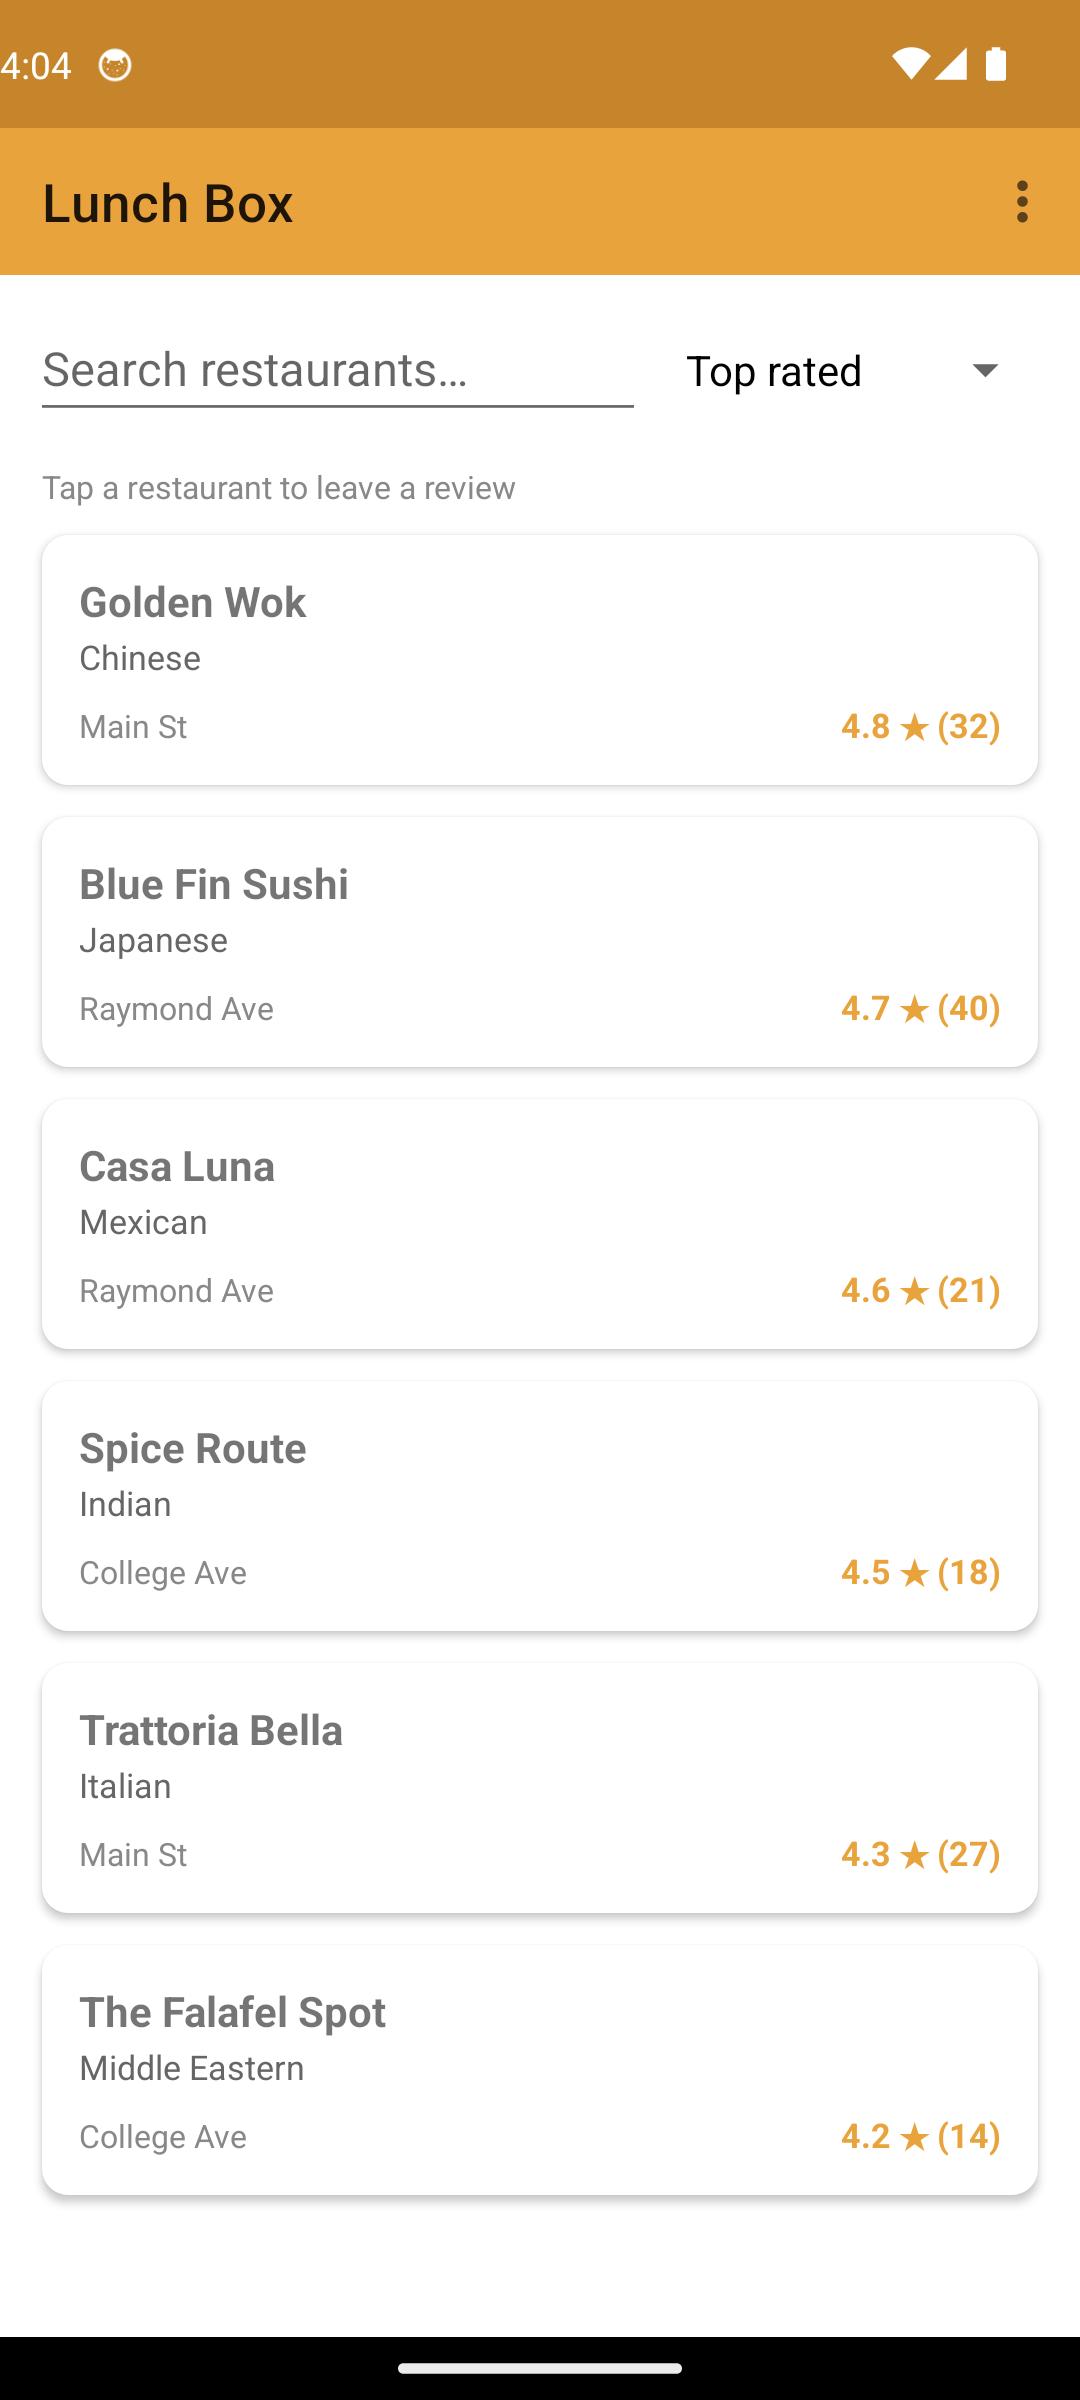
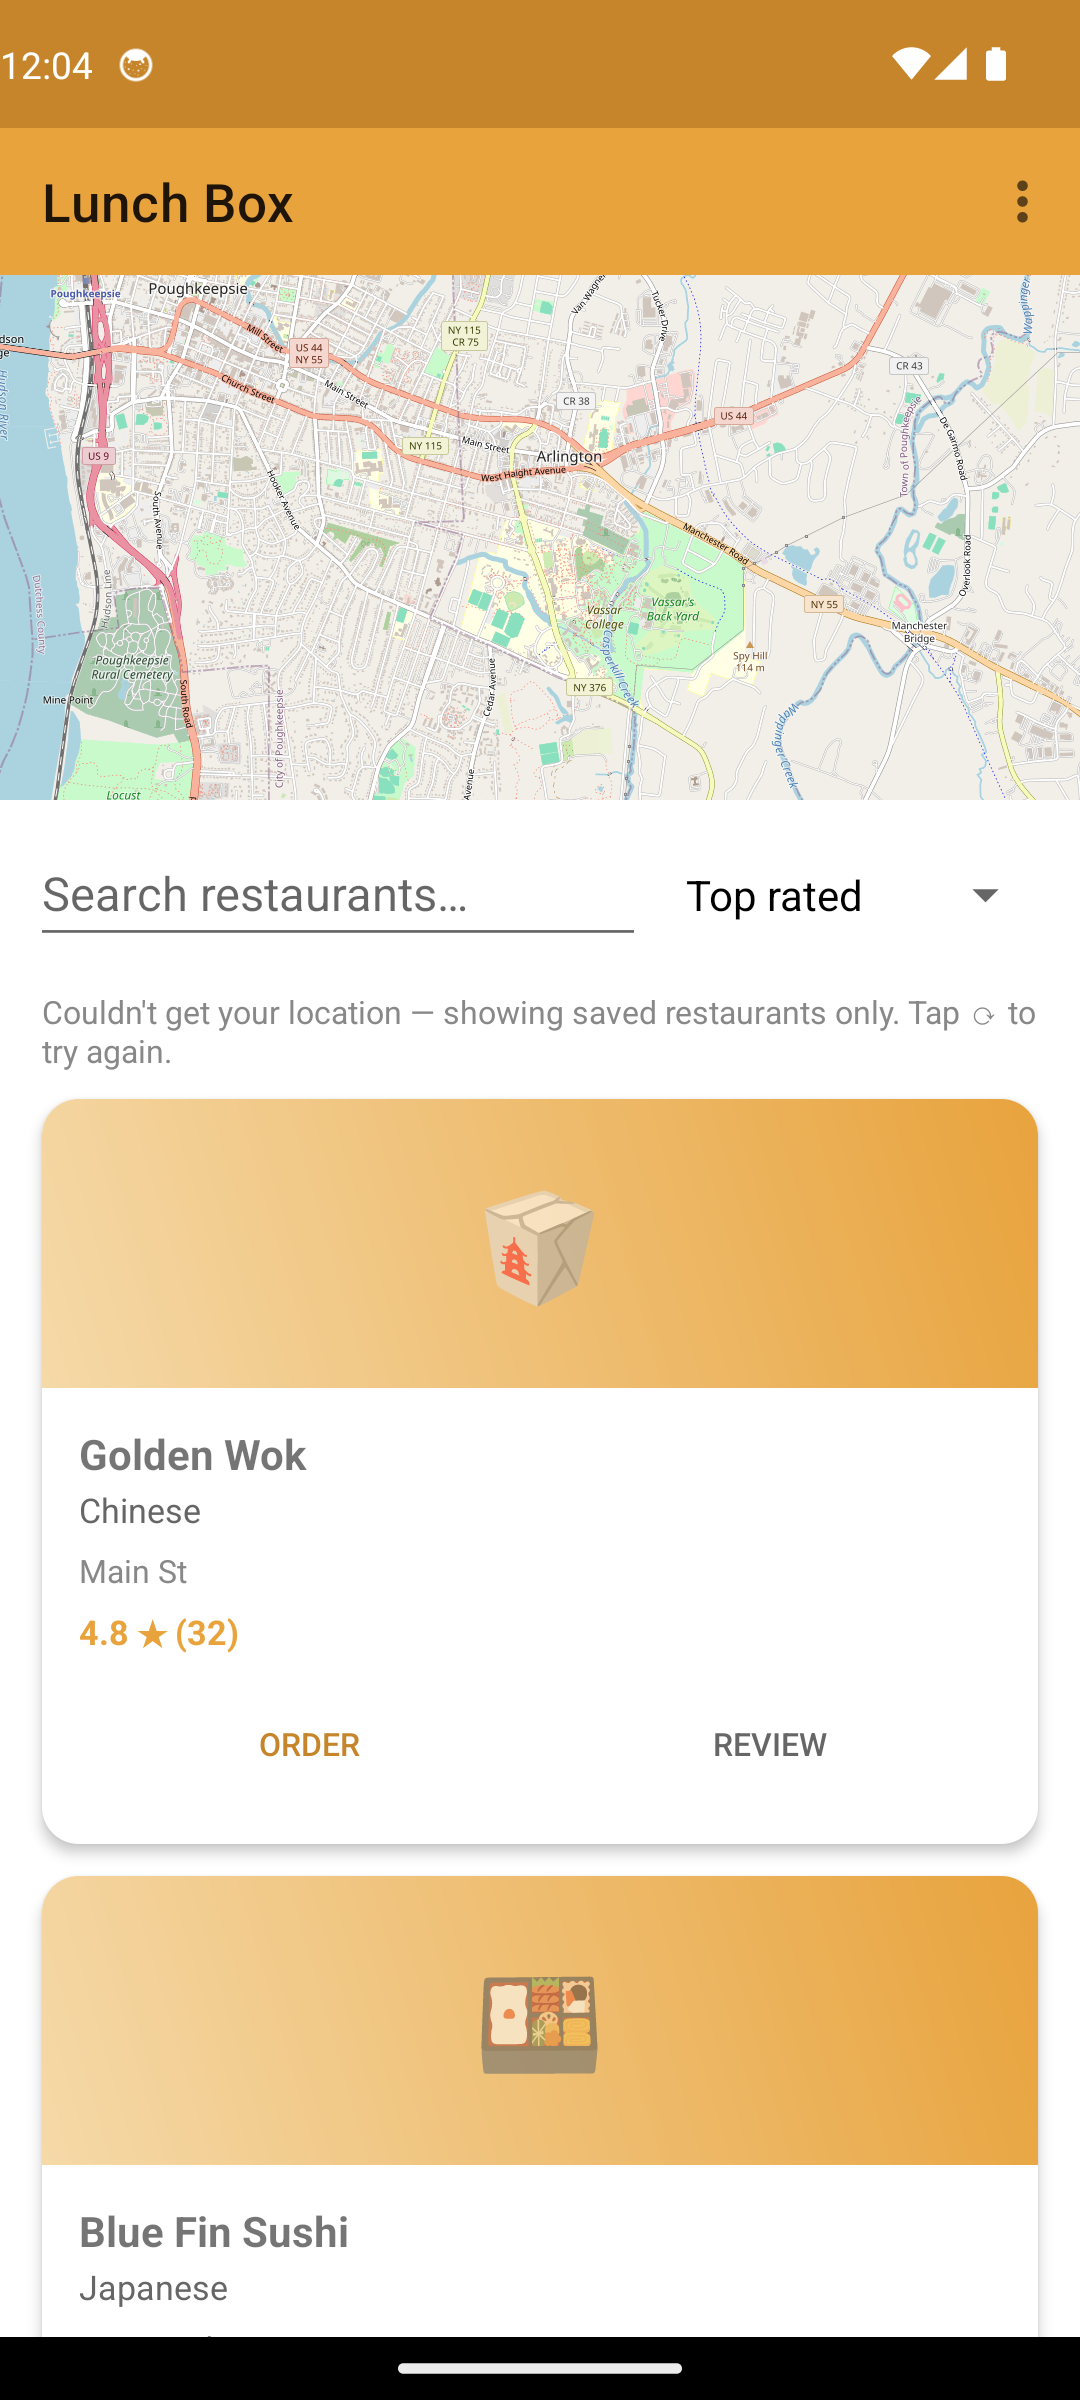
Update Lunch Box card: real map/nearby-restaurant features

diff --git a/lib/data.ts b/lib/data.ts
@@ -137,8 +137,8 @@ export const projects: Project[] = [
   {
     title: "Lunch Box",
     description:
-      "Android app for searching, rating, and reviewing restaurants, with sorting and filtering by name, location, and rating. Kotlin + Firebase Auth/Firestore, MVVM architecture. Built and tested end-to-end on a real emulator against the Firebase Local Emulator Suite.",
-    stack: ["Kotlin", "Firebase", "Android SDK"],
+      "Android app for finding real nearby restaurants on an interactive map (free OpenStreetMap Overpass API, no billing), getting directions, ordering (demo), and leaving reviews. Kotlin + Firebase Auth/Firestore, MVVM architecture. Built and tested end-to-end on a real emulator and a real Firebase backend.",
+    stack: ["Kotlin", "Firebase", "Android SDK", "OpenStreetMap"],
     href: "https://lunch-box-showcase.vercel.app",
     images: ["/images/projects/lunch-box/hero.png"],
   },
